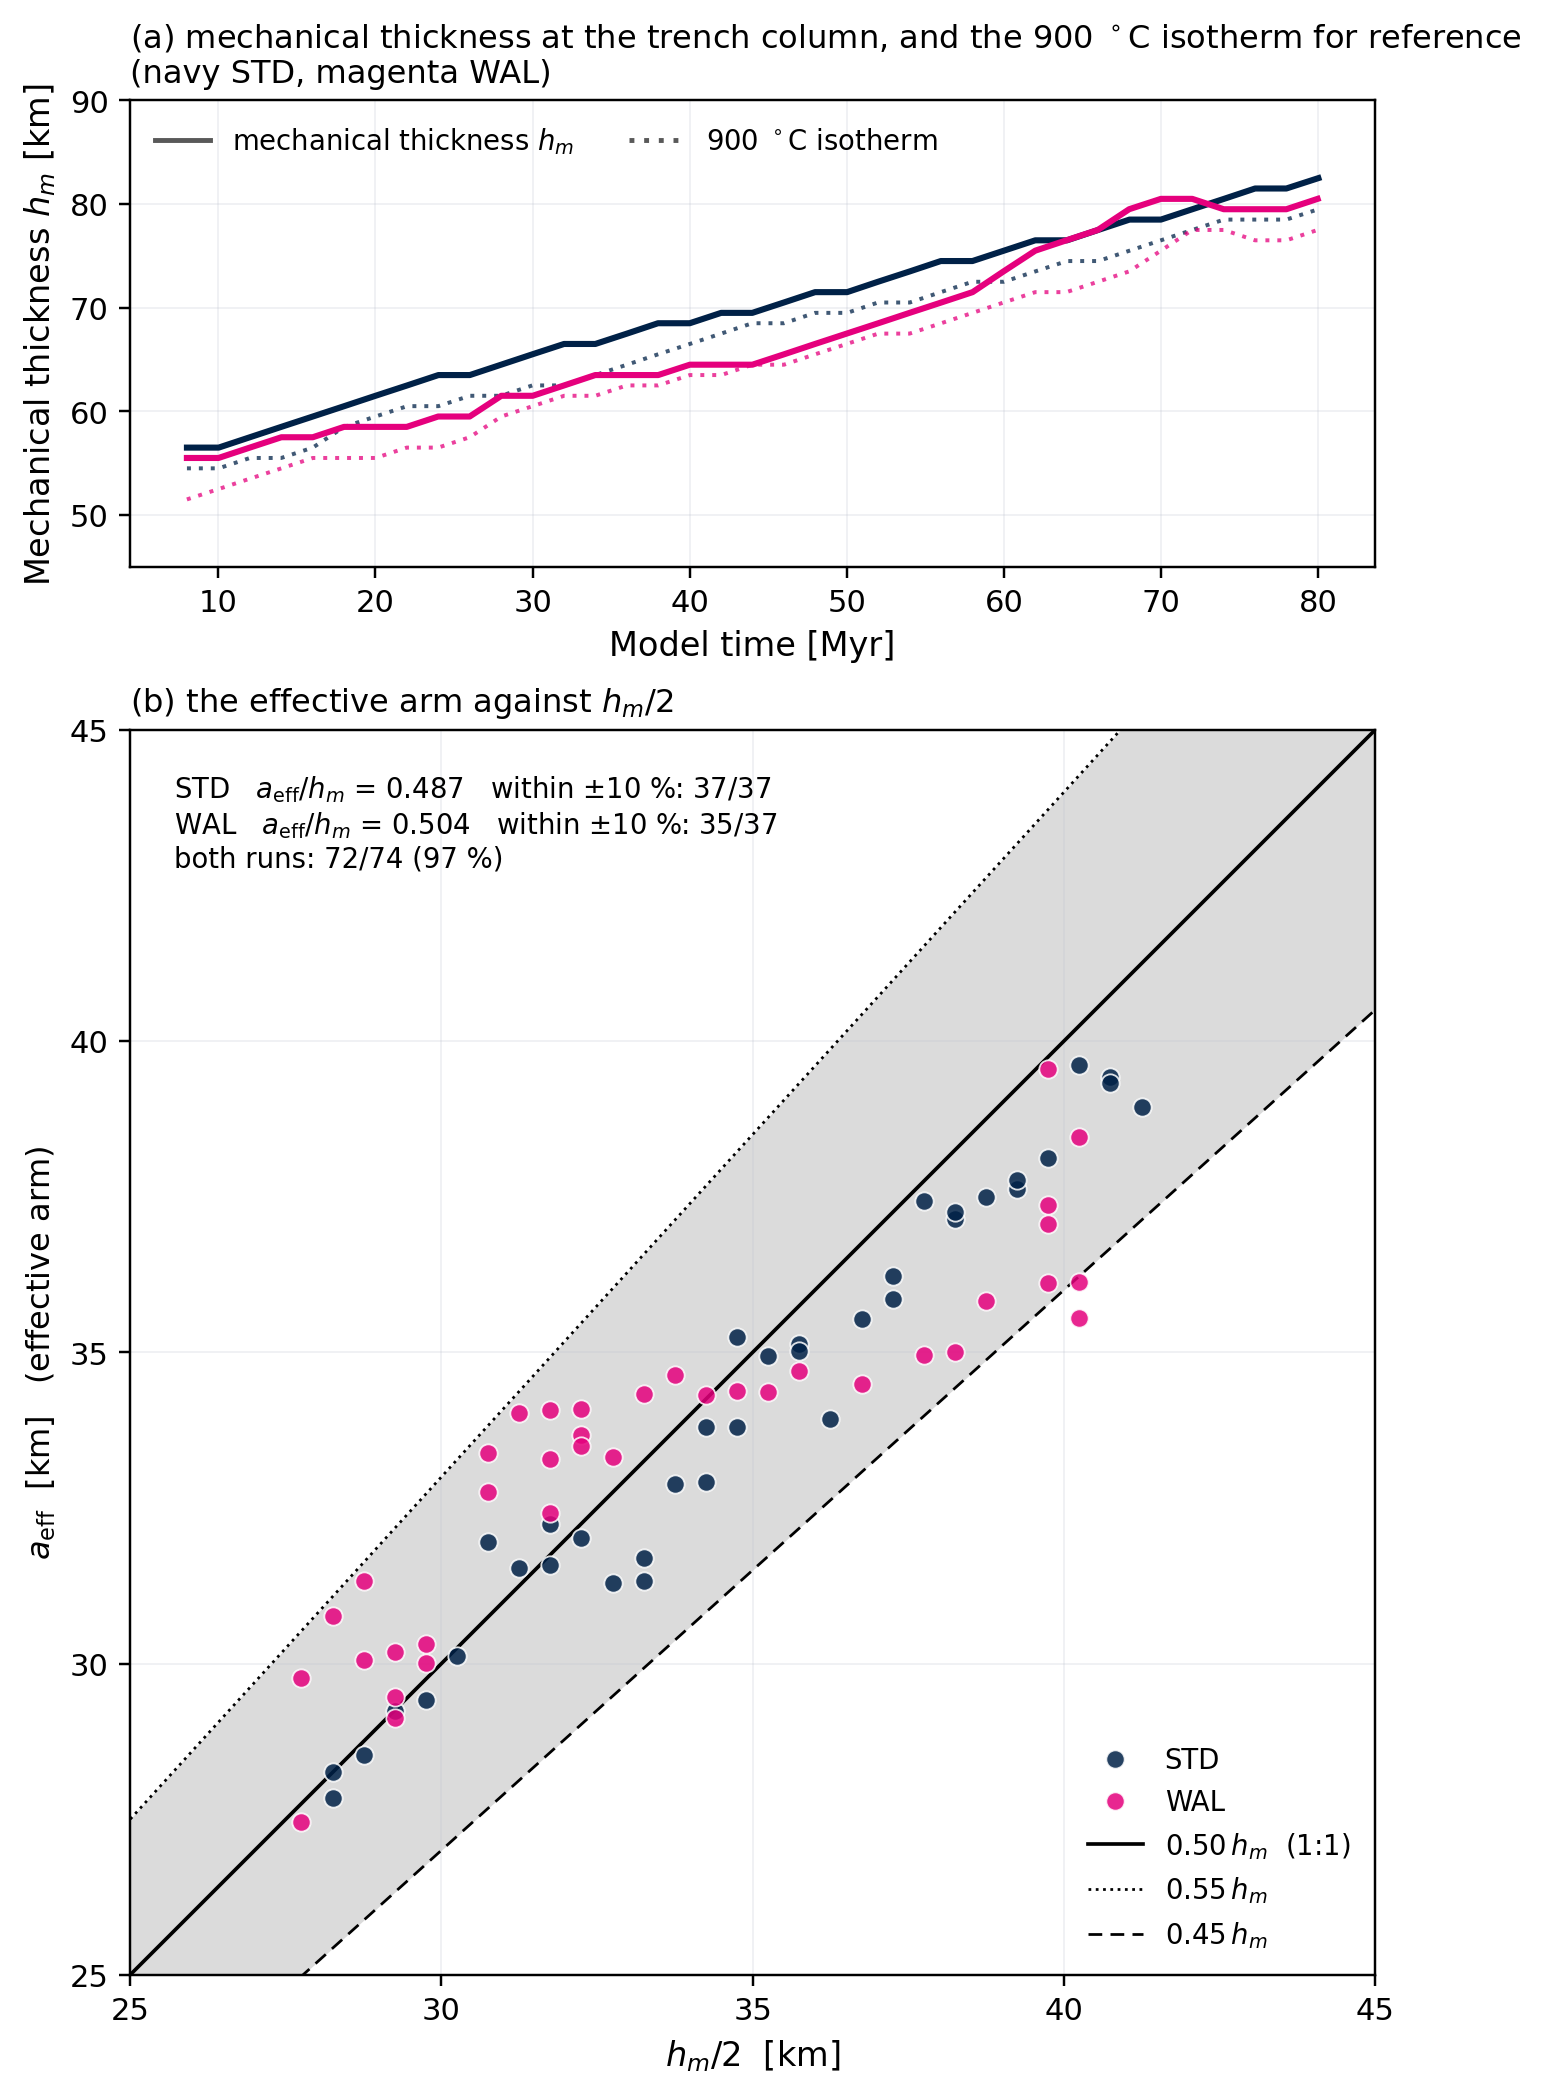
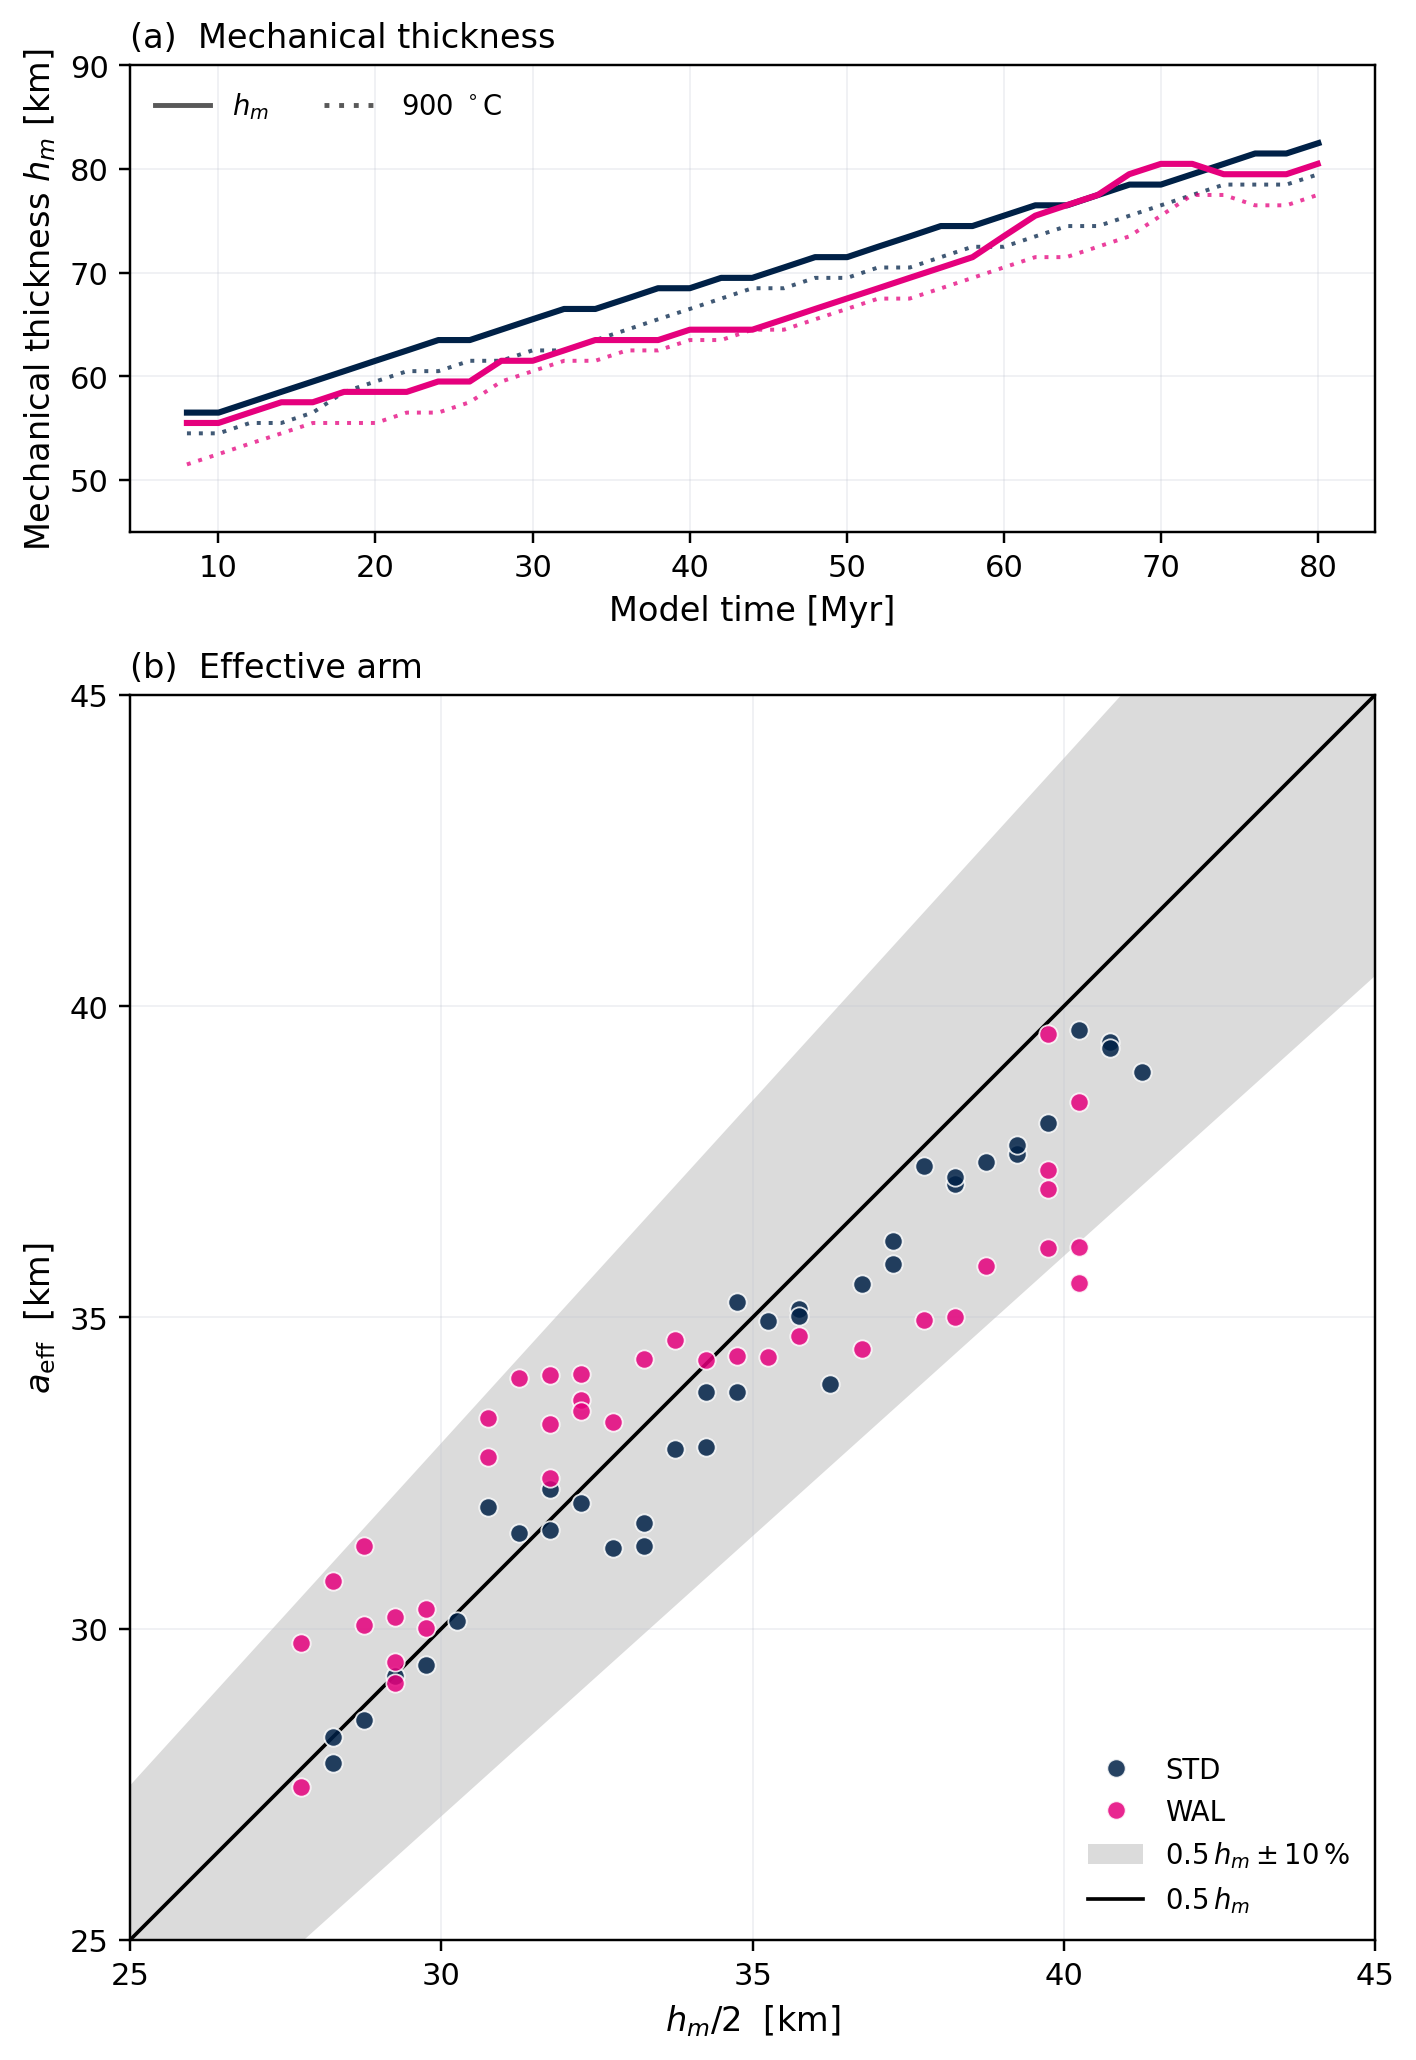
Figure 6: titles, one band, and the caption off the panel
Three things, all the same fault -- the figure explaining itself.

TITLES. '(a) mechanical thickness at the trench column, and the 900 C
isotherm for reference (navy STD, magenta WAL)' and '(b) the effective
arm against h_m/2' each narrated their own panel. Now '(a) Mechanical
thickness' and '(b) Effective arm'. The column, the window and the
colour key are caption material; the axes already say what is plotted.

ONE BAND, NOT THREE LINES (Dan). 0.45, 0.50 and 0.55 h_m were drawn as
three legend entries, which is three readings of one statement. The
claim is a_eff = 0.5 h_m to within 10 per cent, so the band is the claim
and the centre line locates it. The upper edge still coincides with the
companion's fitted 0.55 h_m -- that goes in the caption rather than
earning a third legend entry.

THE HIT RATE LEAVES THE PANEL. A three-line block of medians and counts
sat in the upper left, doing the caption's job. The numbers are in the
table and the caption; the panel shows the data.

Also: the legend in (a) restated the y-axis label and the title, and the
y-axis in (b) restated its own title. Both trimmed.

diff --git a/scripts/fig_mechanical_thickness.py b/scripts/fig_mechanical_thickness.py
@@ -51,17 +51,11 @@ cap, with the thermal curve showing that the cap essentially tracks
 temperature.
 
 DRAFT CAPTION. (a) Mechanical thickness h_m at the trench column through
-the STD (navy) and WAL (magenta) runs, defined as the depth below which the
-magnitude of the carried fibre stress remains below 25 MPa. The dotted
-curves are the 900 C isotherm, calibrated to the strength criterion at
-mid-run and shown as a thermal reference. (b) The effective trench-pull arm
-against h_m/2, one point per snapshot. The shaded band is
-a_eff = 0.5 h_m +- 10 per cent; its upper edge, 0.55 h_m, is the
-elasto-plastic scaling fitted by the companion study, and its lower edge is
-the mirror of that value about 0.5 rather than a second published bound.
-Median a_eff/h_m is 0.487 (STD) and 0.504 (WAL), and 72 of the 74 snapshots
-of the two runs fall inside the band. Both panels use the t >= 8 Myr
-analysis window.
+the STD (navy) and WAL (magenta) runs, with the 900 C isotherm dotted.
+(b) Effective arm against h_m/2, one point per snapshot. Shading spans
+0.5 h_m +- 10 per cent; its upper edge coincides with the 0.55 h_m
+scaling fitted by the companion study. Median a_eff/h_m is 0.487 (STD)
+and 0.504 (WAL), and 72 of the 74 snapshots fall inside the band.
 
 WHY THE BAND AND NOT A REGRESSION. See BAND_LO/BAND_HI below: the slope of
 a_eff on h_m/2 is not stable against the integration limit (0.90 at z_c,
@@ -383,8 +377,12 @@ def main():
     # agreement THROUGH TIME is not.
     # The legend NAMES the two curves; it does not restate the criterion --
     # that is the caption's job (Dan, 2026-10-11).
-    styles = [('yield_cap', '-', 'mechanical thickness $h_m$'),
-              ('thermal', (0, (1, 2)), '900 $^\circ$C isotherm')]
+    # THE LEGEND DISTINGUISHES THE CURVES, it does not re-describe them.
+    # These read 'mechanical thickness $h_m$' and '900 $^\circ$C isotherm'
+    # beneath a y-axis already labelled 'Mechanical thickness $h_m$ [km]'
+    # and a title already reading 'Mechanical thickness'.
+    styles = [('yield_cap', '-', '$h_m$'),
+              ('thermal', (0, (1, 2)), '900 $^\circ$C')]
     rows = [('model', 'quantity', 'value')]
     band_hits = {}
     for key in ('STD', 'WAL'):
@@ -507,9 +505,12 @@ def main():
 
     ax_t.set_ylabel('Mechanical thickness $h_m$ [km]', fontsize=11)
     ax_t.set_xlabel('Model time [Myr]', fontsize=11)
-    ax_t.set_title(f'(a) mechanical thickness at the {_COLNAME}, and the '
-                   '900 $^\\circ$C isotherm for reference\n(navy STD, magenta WAL)',
-                   fontsize=10.5, loc='left')
+    # TITLES ARE NOUN PHRASES. These read '(a) mechanical thickness at the
+    # trench column, and the 900 C isotherm for reference (navy STD, magenta
+    # WAL)' and '(b) the effective arm against h_m/2' -- each one narrating
+    # its own panel. The column, the window and the colour key belong in the
+    # caption; the axes already say what is plotted (Dan, 2026-10-14).
+    ax_t.set_title('(a)  Mechanical thickness', fontsize=11, loc='left')
     ax_t.grid(alpha=0.25, color=C_RULE, lw=0.6)
     ax_t.set_ylim(45, 90)
     for _, ls, lab in styles:
@@ -520,32 +521,23 @@ def main():
     # split version so the comparison is unchanged.
     lim = np.array([float(x) for x in
                     os.environ.get('SCALE_LIM', '25,45').split(',')])
-    # THE BAND IS THE CLAIM, the lines only label its edges. Drawn under
-    # everything (zorder 0); the abscissa is h_m/2, so a ratio of f h_m
-    # plots as the line y = 2 f x.
+    # ONE BAND, ONE LINE (Dan, 2026-10-14). This drew 0.45, 0.50 and 0.55
+    # h_m as three separate legend entries, which is three readings of one
+    # statement. The claim is a_eff = 0.5 h_m to within 10 per cent, so the
+    # band IS the claim and the centre line locates it. The upper edge still
+    # coincides with the companion's fitted 0.55 h_m; that belongs in the
+    # caption, not in a third legend entry.
+    # The abscissa is h_m/2, so a ratio of f h_m plots as y = 2 f x.
     ax_sc.fill_between(lim, 2 * BAND_LO * lim, 2 * BAND_HI * lim,
-                       color='0.86', lw=0, zorder=0)
-    ax_sc.plot(lim, lim, 'k-', lw=1.2, zorder=3,
-               label=r'$0.50\,h_m$  (1:1)')
-    # 0.55 h_m: the companion study's scaling, evaluated here with the
-    # mechanical thickness. It writes 0.55 h against its own thickness
-    # definition; the label follows THIS panel's axis so the line and the
-    # abscissa cannot be read in different units. Say so in the caption.
-    ax_sc.plot(lim, 2 * BAND_HI * lim, 'k:', lw=0.9, zorder=3,
-               label=rf'${BAND_HI:.2f}\,h_m$')
-    ax_sc.plot(lim, 2 * BAND_LO * lim, 'k--', lw=0.9, dashes=(5, 3), zorder=3,
-               label=rf'${BAND_LO:.2f}\,h_m$')
-    # the hit rate, stated on the panel: the band is wide enough that it
-    # cannot carry the claim alone, so the medians ride with it
+                       color='0.86', lw=0, zorder=0,
+                       label=r'$0.5\,h_m \pm 10\,\%$')
+    ax_sc.plot(lim, lim, 'k-', lw=1.2, zorder=3, label=r'$0.5\,h_m$')
+    # THE HIT RATE IS NOT PRINTED ON THE PANEL. It was, as a three-line
+    # block in the upper left -- medians and counts for both runs. Those are
+    # caption numbers and they are in the table; a panel that states its own
+    # result twice over is doing the caption's job.
     n_in = sum(v[0] for v in band_hits.values())
     n_all = sum(v[1] for v in band_hits.values())
-    ax_sc.text(0.035, 0.965,
-               '\n'.join([rf'{k}   $a_\mathrm{{eff}}/h_m$ = {v[2]:.3f}'
-                          rf'   within $\pm$10 %: {v[0]}/{v[1]}'
-                          for k, v in band_hits.items()]
-                         + [f'both runs: {n_in}/{n_all} '
-                            f'({100 * n_in / n_all:.0f} %)']),
-               transform=ax_sc.transAxes, va='top', fontsize=9, zorder=5)
     print(f'   band {BAND_LO:.2f}-{BAND_HI:.2f} h_m: {n_in}/{n_all} '
           f'({100 * n_in / n_all:.0f} %) of snapshots, both runs')
     ax_sc.set_xlim(*lim); ax_sc.set_ylim(*lim)
@@ -565,10 +557,8 @@ def main():
     # manuscript's own symbol). This axis read '$L$', which SYMBOLOGY §2
     # DEPRECATES for this quantity -- L is RESERVED for domain length --
     # and which the manuscript stopped using on 2026-10-08. Fixed 2026-10-11.
-    ax_sc.set_ylabel(r'$a_{\mathrm{eff}}$  [km]   (effective arm)',
-                     fontsize=10.5)
-    ax_sc.set_title(r'(b) the effective arm against $h_m/2$', 
-                    fontsize=10.5, loc='left')
+    ax_sc.set_ylabel(r'$a_{\mathrm{eff}}$  [km]', fontsize=11)
+    ax_sc.set_title('(b)  Effective arm', fontsize=11, loc='left')
     ax_sc.grid(alpha=0.25, color=C_RULE, lw=0.6, zorder=1)
     # LOWER RIGHT: the hit-rate text now owns the upper left, and the
     # scatter's own trend leaves that corner empty
